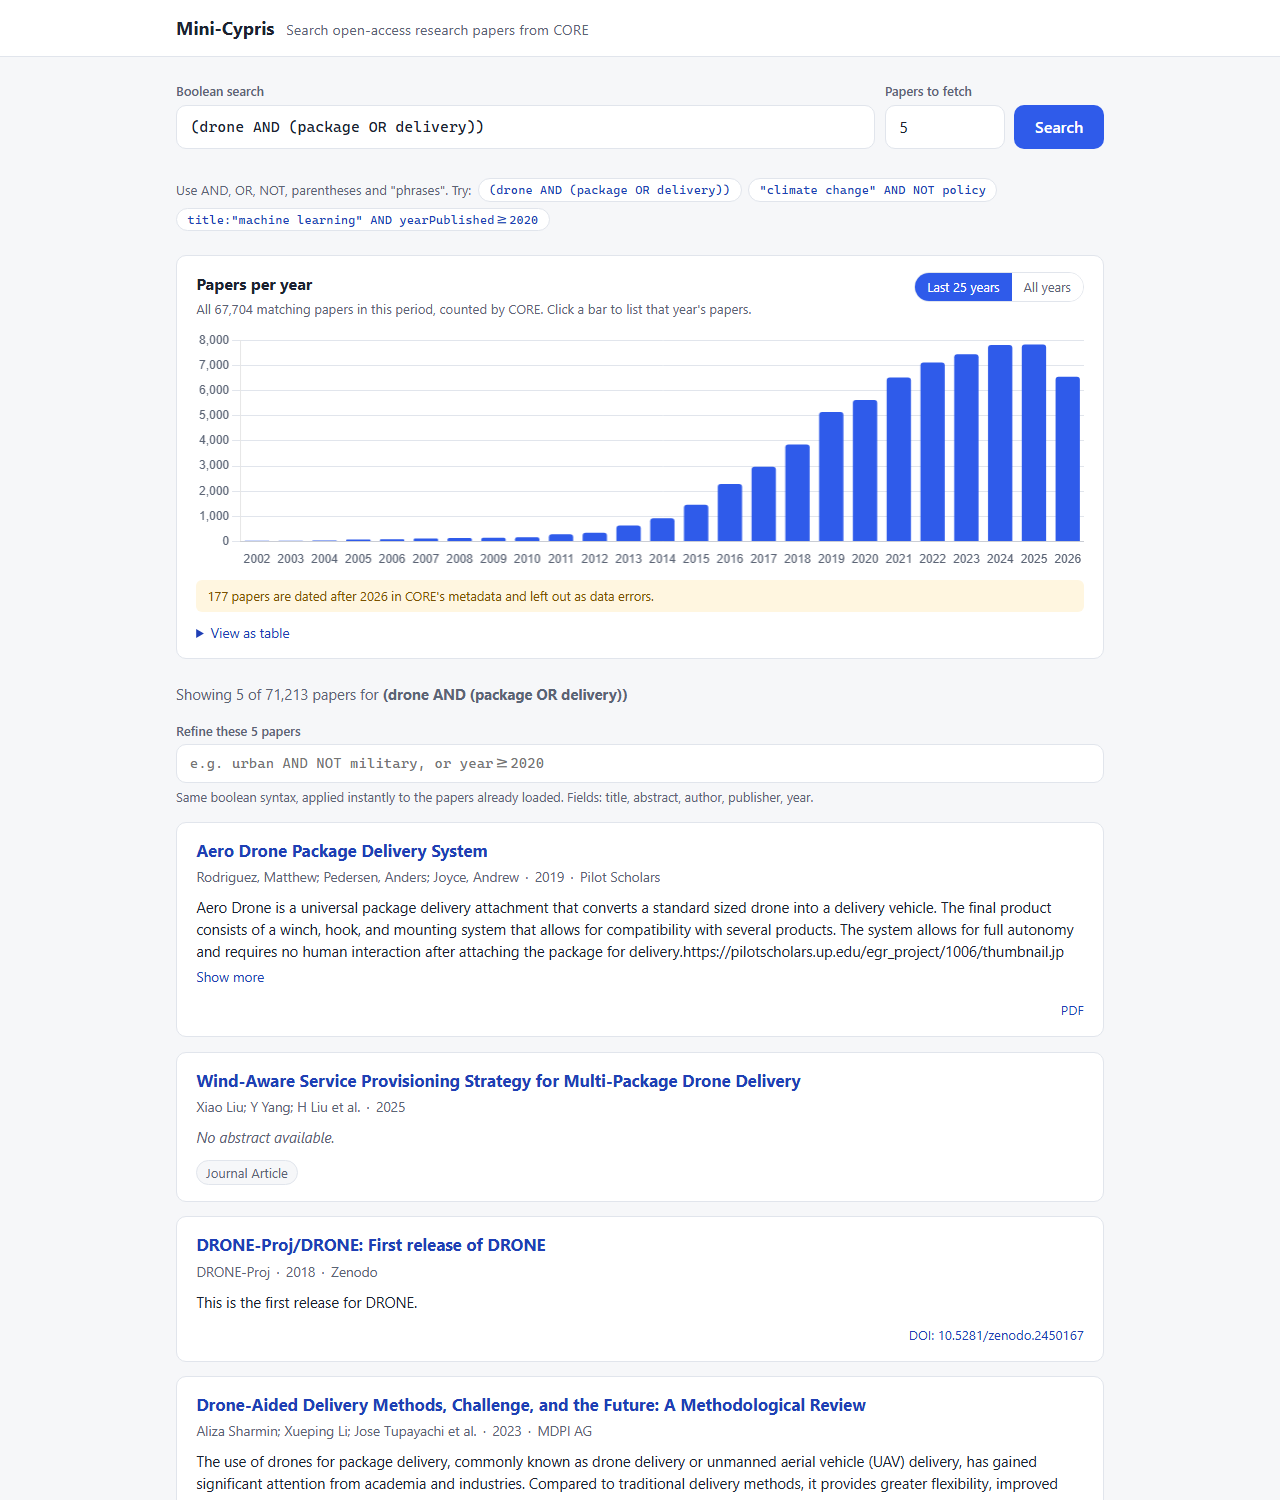
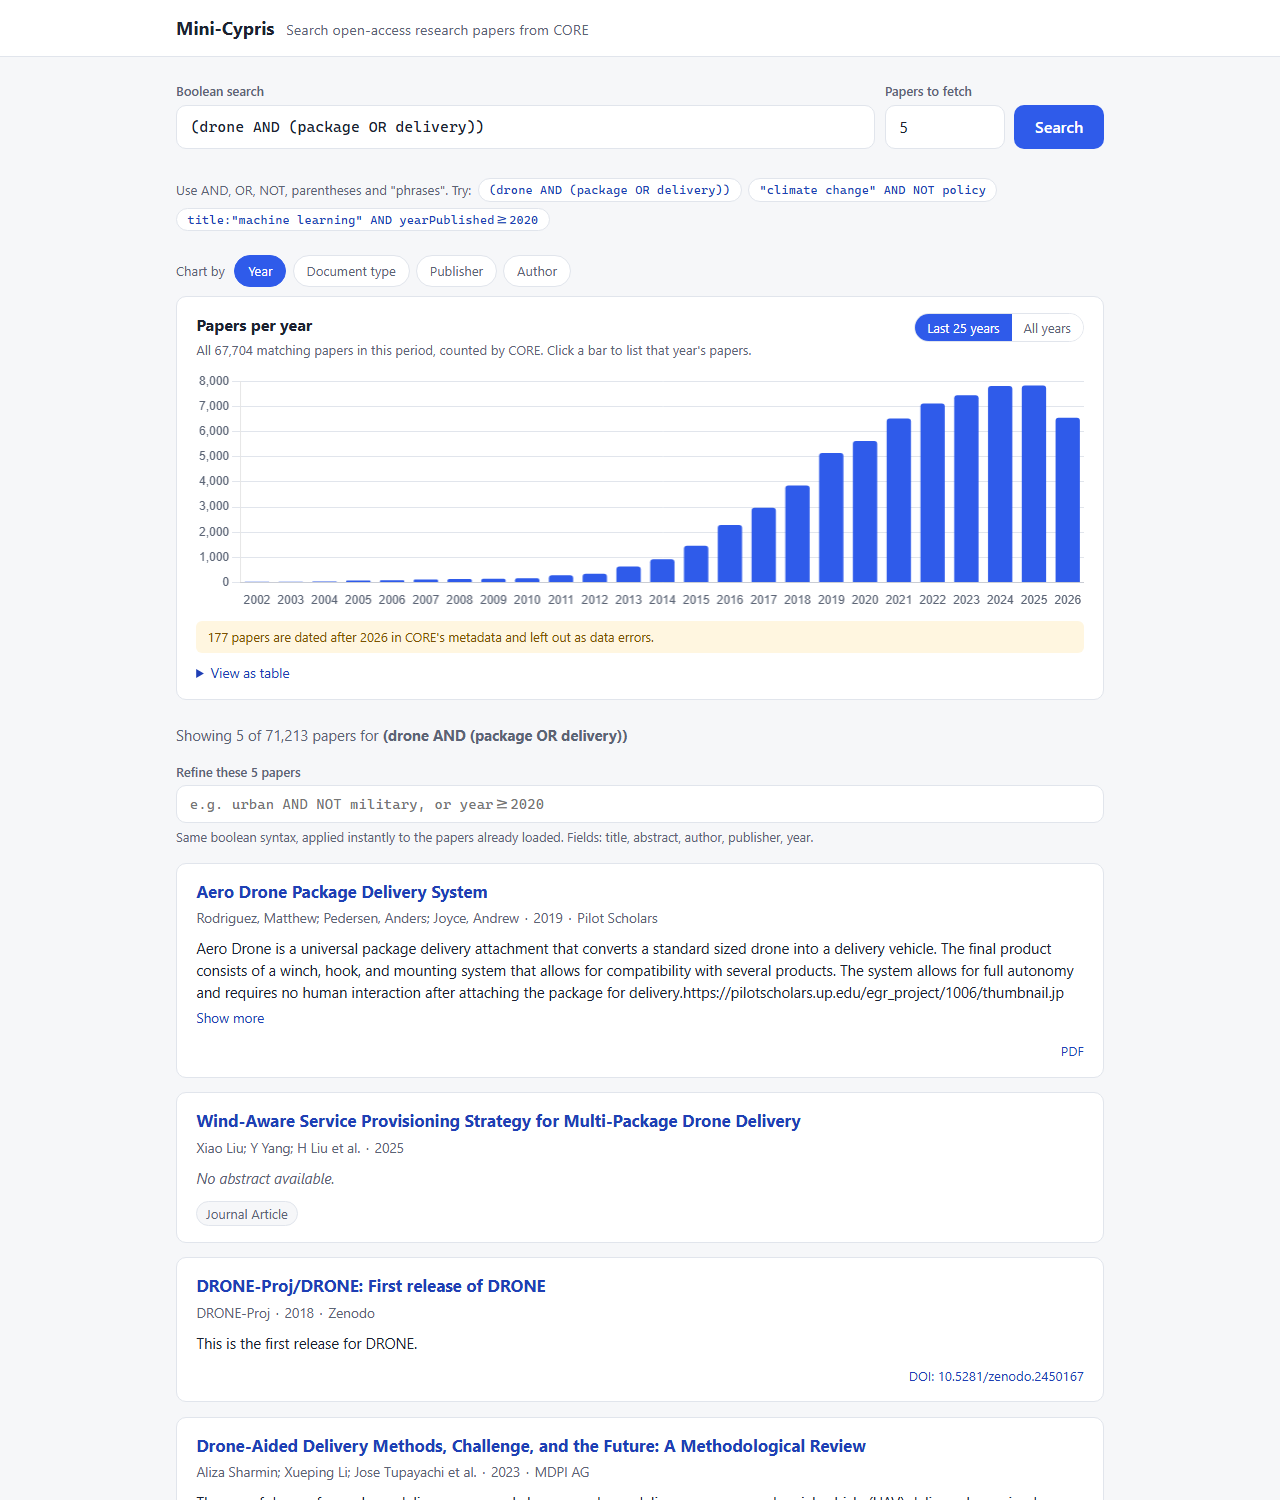
Update README, screenshots and demo GIF for the chart switcher

Changed region(s): [[0.125, 0.1533, 0.8438, 1.0], [0.7188, 0.8893, 0.8438, 0.92]]

diff --git a/README.md b/README.md
@@ -12,13 +12,13 @@ query.
 Built as a take-home project for Cypris. The reasoning behind each choice, with the
 alternatives considered, is in [Design_Decisions.md](Design_Decisions.md).
 
-![A 15-second demo: a boolean search, clicking the 2021 bar to list that year's papers, then refining the loaded papers in the browser](docs/demo.gif)
+![A 20-second demo: a boolean search, switching the chart to publishers and authors, clicking the 2021 bar to list that year's papers, then refining the loaded papers in the browser](docs/demo.gif)
 
 ![Search results for a boolean query, with the papers-per-year chart above the paper cards](docs/search-desktop.png)
 
-| Year drill-down                                                                                     | Phone width                                                          |
-| --------------------------------------------------------------------------------------------------- | -------------------------------------------------------------------- |
-| ![The 2021 bar selected in the chart, with the list narrowed to that year](docs/year-drilldown.png) | ![The same search at a 390-pixel-wide screen](docs/search-phone.png) |
+| Year drill-down                                                                                     | Chart by publisher                                                                        | Phone width                                                          |
+| --------------------------------------------------------------------------------------------------- | ----------------------------------------------------------------------------------------- | -------------------------------------------------------------------- |
+| ![The 2021 bar selected in the chart, with the list narrowed to that year](docs/year-drilldown.png) | ![The ten most common publishers for the query as ranked bars](docs/chart-publishers.png) | ![The same search at a 390-pixel-wide screen](docs/search-phone.png) |
 
 ## Run it
 
@@ -79,15 +79,15 @@ cannot be used as a general-purpose proxy for the key (see
 
 Mapped to the steps in the project brief:
 
-| Brief | Requirement                         | Where                                                                                          |
-| ----- | ----------------------------------- | ---------------------------------------------------------------------------------------------- |
-| 1     | Angular 20 or higher                | Angular 21: standalone components, signals, zoneless change detection                          |
-| 2     | Query CORE with GET                 | `src/app/core-api/core-api.ts`                                                                 |
-| 3     | Clean UI for paper objects          | Paper cards: title, authors, year, publisher, expandable abstract, PDF and DOI links           |
-| 4     | Field for how many papers to return | "Papers to fetch" (1–100); changing it re-runs the current search                              |
-| 5     | Boolean keyword search              | Main bar queries CORE; "Refine these papers" filters the loaded papers with the same syntax    |
-| 6     | Chart aggregating all matches       | Papers per year from CORE's aggregate endpoint, covering every match, not just the loaded page |
-| 7     | README and incremental commits      | This file; each commit builds, passes its tests and runs                                       |
+| Brief | Requirement                         | Where                                                                                                                                                    |
+| ----- | ----------------------------------- | -------------------------------------------------------------------------------------------------------------------------------------------------------- |
+| 1     | Angular 20 or higher                | Angular 21: standalone components, signals, zoneless change detection                                                                                    |
+| 2     | Query CORE with GET                 | `src/app/core-api/core-api.ts`                                                                                                                           |
+| 3     | Clean UI for paper objects          | Paper cards: title, authors, year, publisher, expandable abstract, PDF and DOI links                                                                     |
+| 4     | Field for how many papers to return | "Papers to fetch" (1–100); changing it re-runs the current search                                                                                        |
+| 5     | Boolean keyword search              | Main bar queries CORE; "Refine these papers" filters the loaded papers with the same syntax                                                              |
+| 6     | Chart aggregating all matches       | Papers per year from CORE's aggregate endpoint, covering every match, not just the loaded page; switchable to top document types, publishers and authors |
+| 7     | README and incremental commits      | This file; each commit builds, passes its tests and runs                                                                                                 |
 
 ## Additions beyond the brief
 
@@ -122,8 +122,13 @@ Mapped to the steps in the project brief:
     proxy, holds the key as an encrypted secret, and is restricted to the two CORE endpoints
     the app needs. It caches successful
     answers at the edge so repeated queries do not spend the shared rate limit.
-13. **Tests.** 83 unit tests covering the API service, data cleaning, the boolean parser and
-    matcher, the search store (cancellation, caching, paging, fallback) and URL handling.
+13. **Chart dimension switcher.** "Chart by" Year, Document type, Publisher or Author. All
+    four come from one CORE request, so switching is instant and costs nothing against the
+    rate limit. Placeholder values are dropped; names CORE spells two ways are left apart and
+    the chart says so.
+14. **Tests.** 95 unit tests covering the API service, data cleaning, the boolean parser and
+    matcher, the search store (cancellation, caching, paging, fallback), chart data and URL
+    handling.
 
 ## Project layout
 
@@ -131,7 +136,7 @@ Mapped to the steps in the project brief:
 src/app/
   core-api/     CORE client, raw response types, the clean Paper model, error mapping
   search/       search page, search bar, paper card, search store, boolean parser and matcher
-  chart/        year chart component and the pure functions that build its data
+  chart/        year chart, ranked top-ten chart, the switcher, and the pure functions behind them
 proxy.conf.mjs  dev-server proxy that adds the API key
 worker/         the same proxy as a Cloudflare Worker, for the deployed site
 wrangler.jsonc  Cloudflare build output and routing settings
@@ -145,6 +150,8 @@ wrangler.jsonc  Cloudflare build output and routing settings
 - The in-browser refine filter matches by substring and only sees the loaded papers; it is a
   convenience on top of CORE's search, not a replacement for it.
 - CORE pages by offset only up to 10,000 results; "Load more" stops there.
+- Only the year chart drills down. CORE's publisher and author filters do not match the
+  charted counts exactly, so those bars are not clickable.
 - The chart component itself is verified by hand in the browser. Its data logic is unit
   tested, but canvas rendering is not.
 
